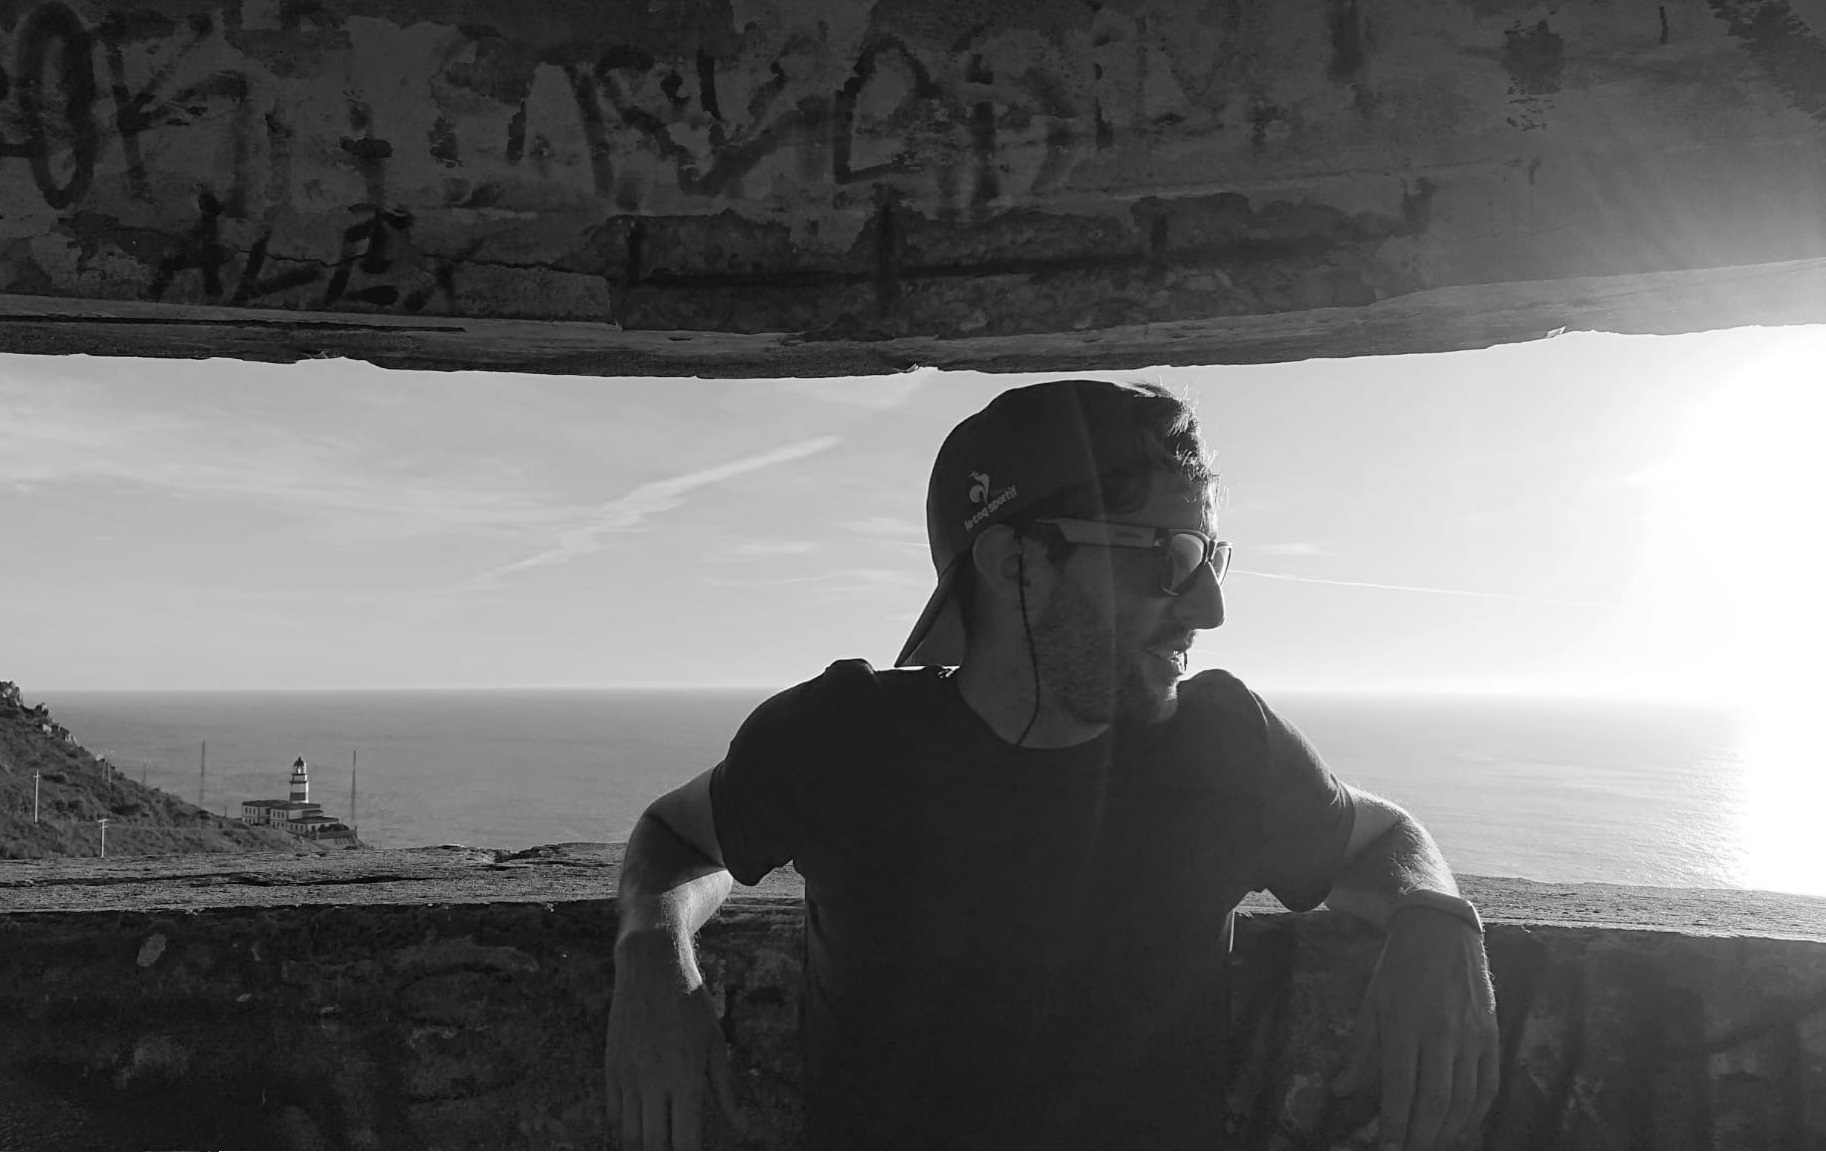
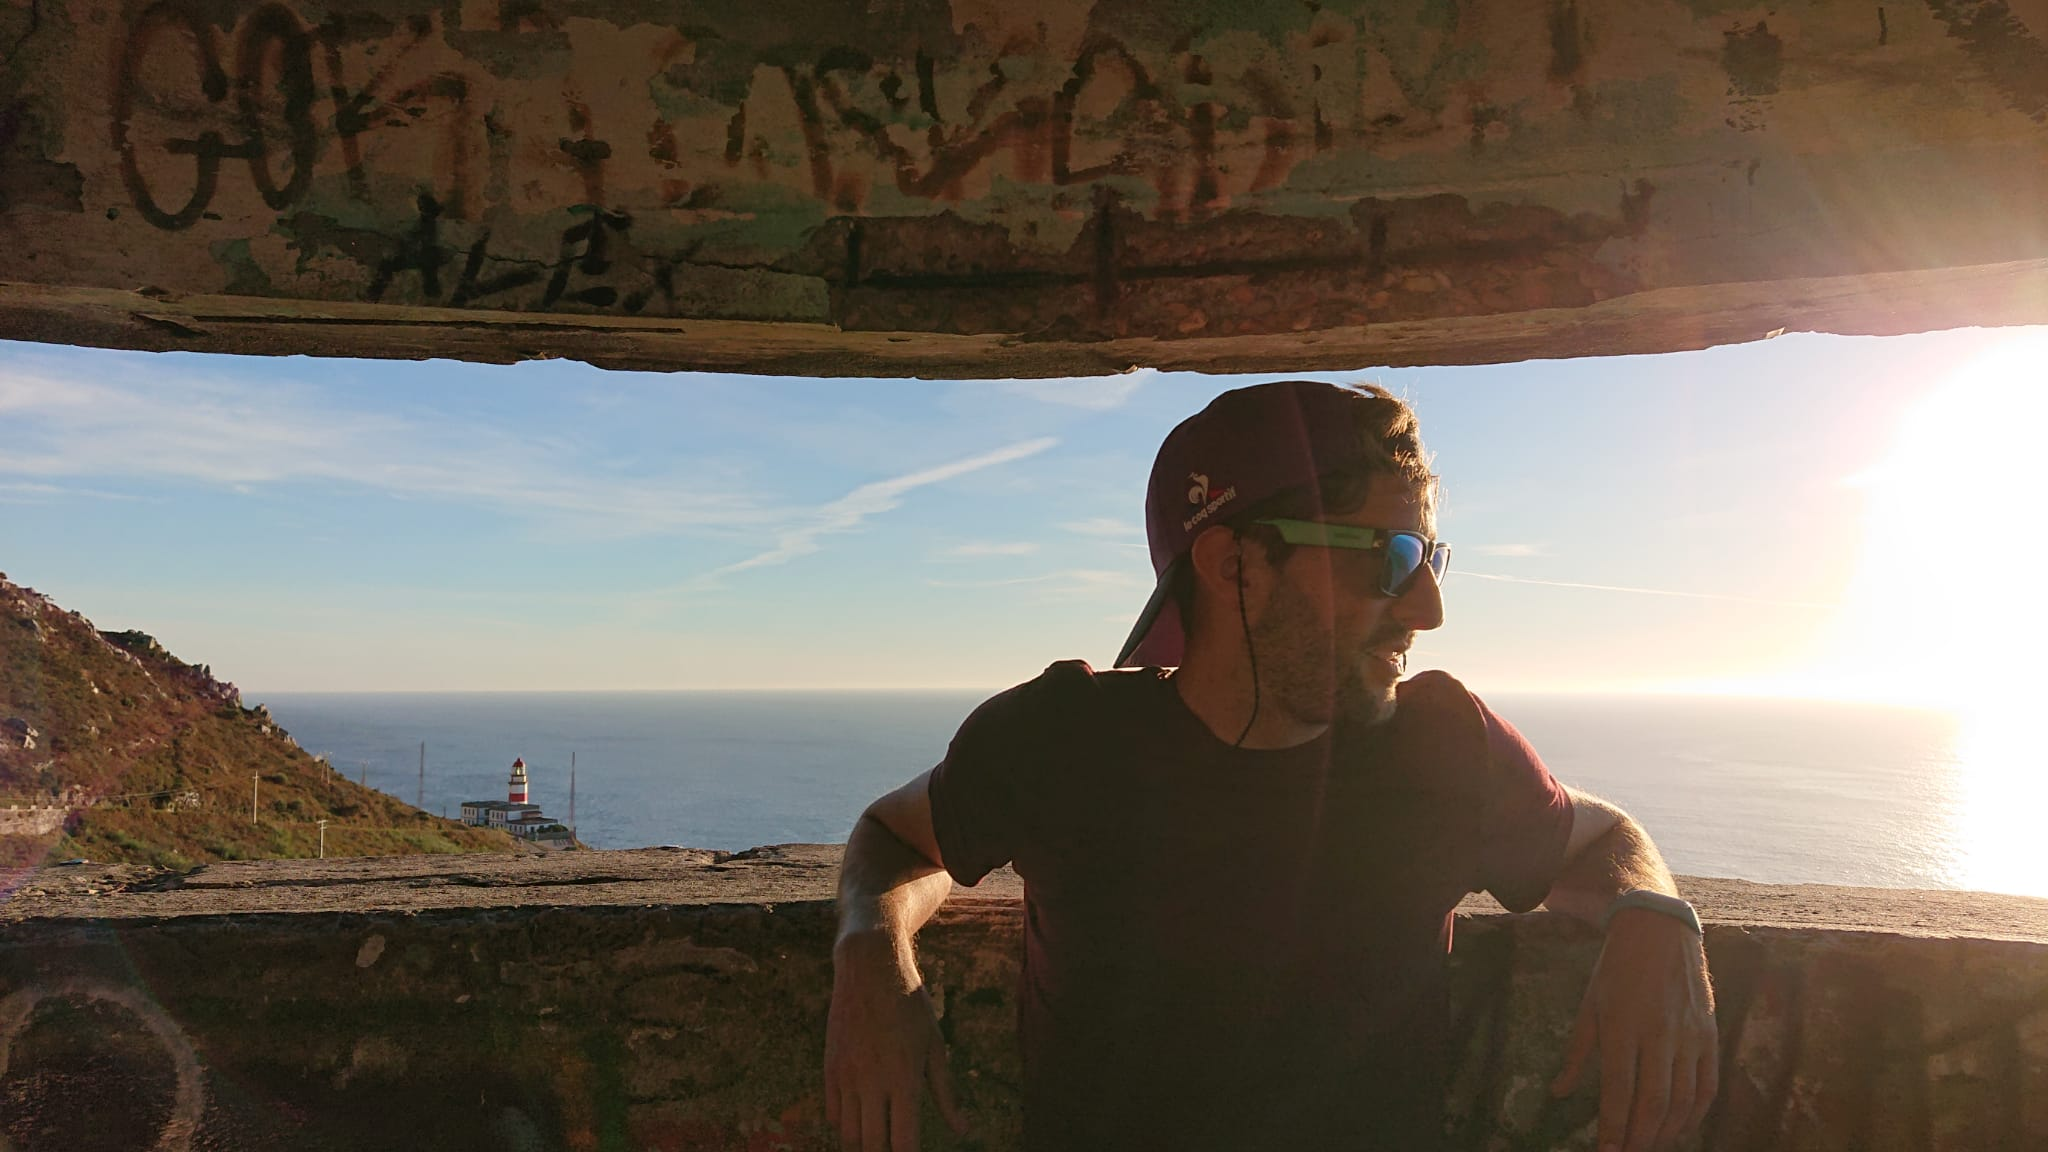
color a imagenes

diff --git a/src/components/Header.vue b/src/components/Header.vue
@@ -14,8 +14,8 @@
                     <!-- Collect the nav links, forms, and other content for toggling -->
                     <div class="collapse navbar-collapse offset" id="navbarSupportedContent">
                       <ul class="nav navbar-nav menu_nav ml-auto">                
-                        <li class="nav-item"><a class="nav-link" href="#proyectos">{{ $t('nav.projects') }}</a></li>
-                        <li class="nav-item"><a class="nav-link" href="#footer">{{ $t('nav.about') }}</a></li>
+                        <!-- <li class="nav-item"><a class="nav-link" href="#proyectos">{{ $t('nav.projects') }}</a></li>
+                        <li class="nav-item"><a class="nav-link" href="#footer">{{ $t('nav.about') }}</a></li> -->
                         <li class="nav-item dropdown">
                             <a class="nav-link" id="dropdown09" data-toggle="dropdown" aria-haspopup="true" aria-expanded="false">
                                 <button class="flag_button nav-link btn btn-transparent">

diff --git a/src/components/Projects.vue b/src/components/Projects.vue
@@ -82,13 +82,13 @@
 					</div>
 					<div class="col-lg-4 col-sm-6">
 						<div class="projects_item">
-							<img class="img-fluid" src="../assets/img/projects/peeperjava.jpg" alt="">
+							<img class="img-fluid" src="../assets/img/projects/peeperpattern.jpg" alt="">
 							<div class="projects_text">
-								<h4>{{ $t('github.peeper') }}</h4>
+								<h4>{{ $t('github.peeperpattern') }}</h4>
 							</div>
 							<a href="https://github.com/toniferr/PeeperJava" target="_blank">
 								<div class="overlay">
-									<div class="text">{{ $t('github.peeperdef') }}</div>
+									<div class="text">{{ $t('github.peeperpatterndef') }}</div>
 								</div>
 							</a>
 						</div>
